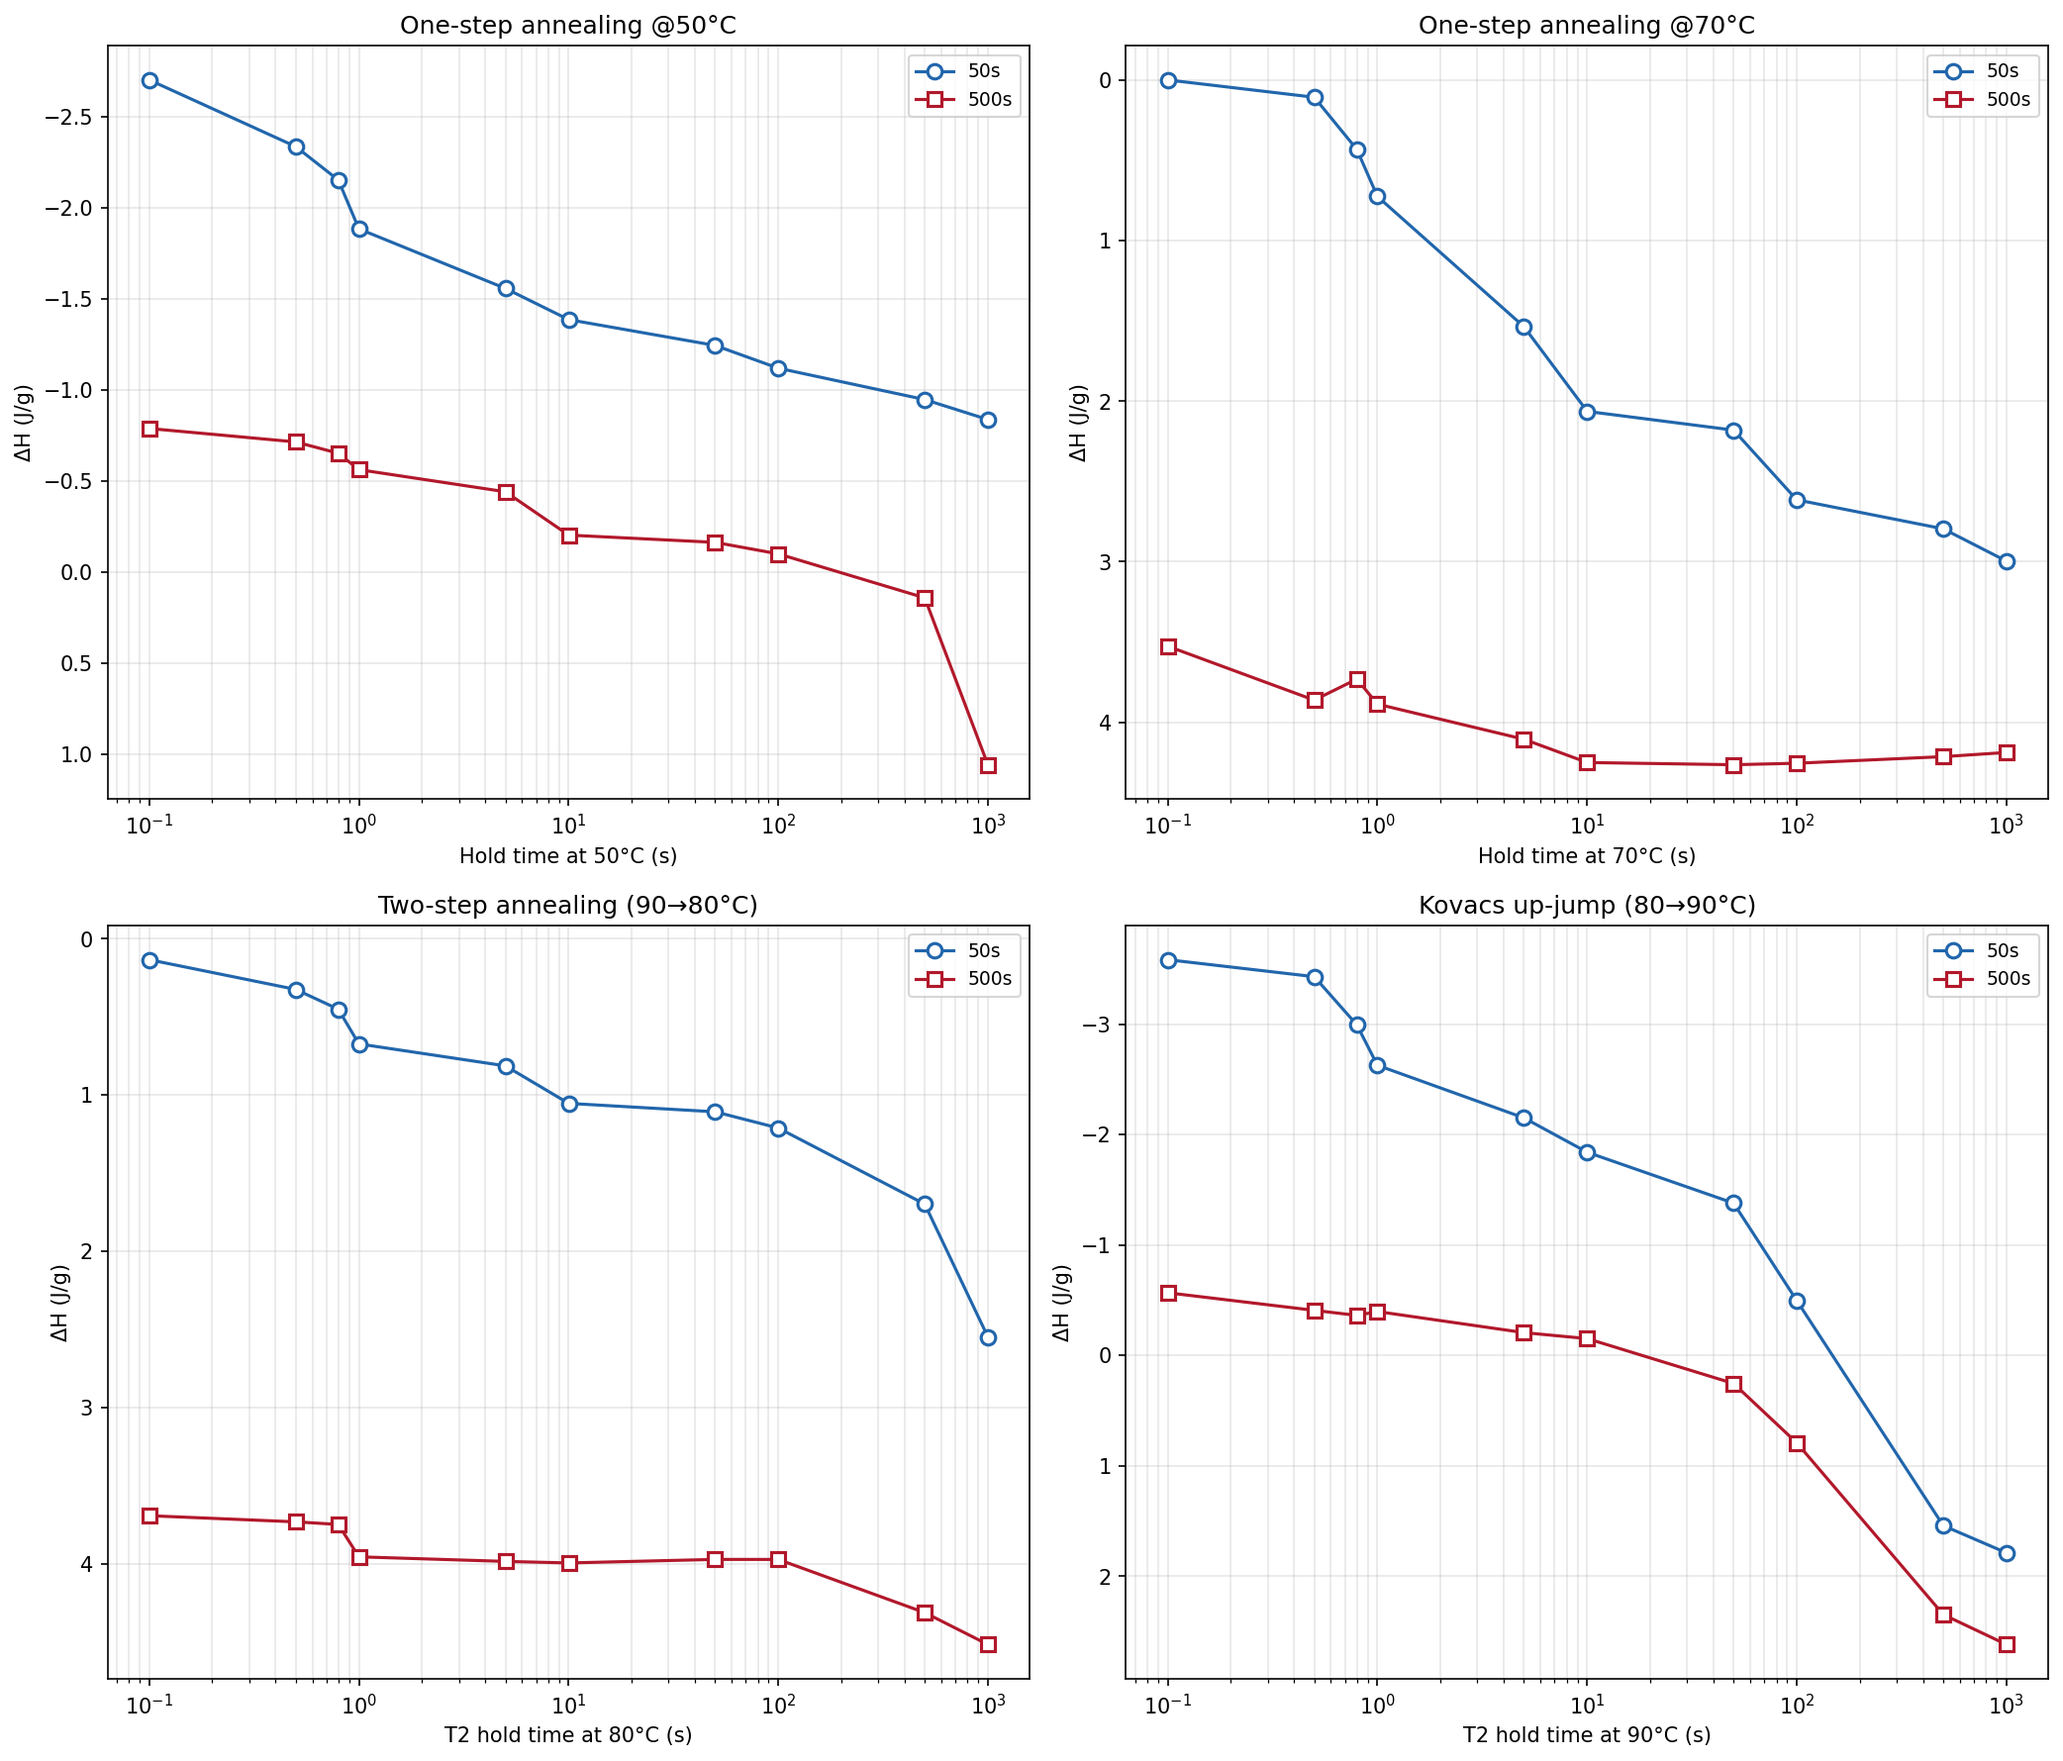
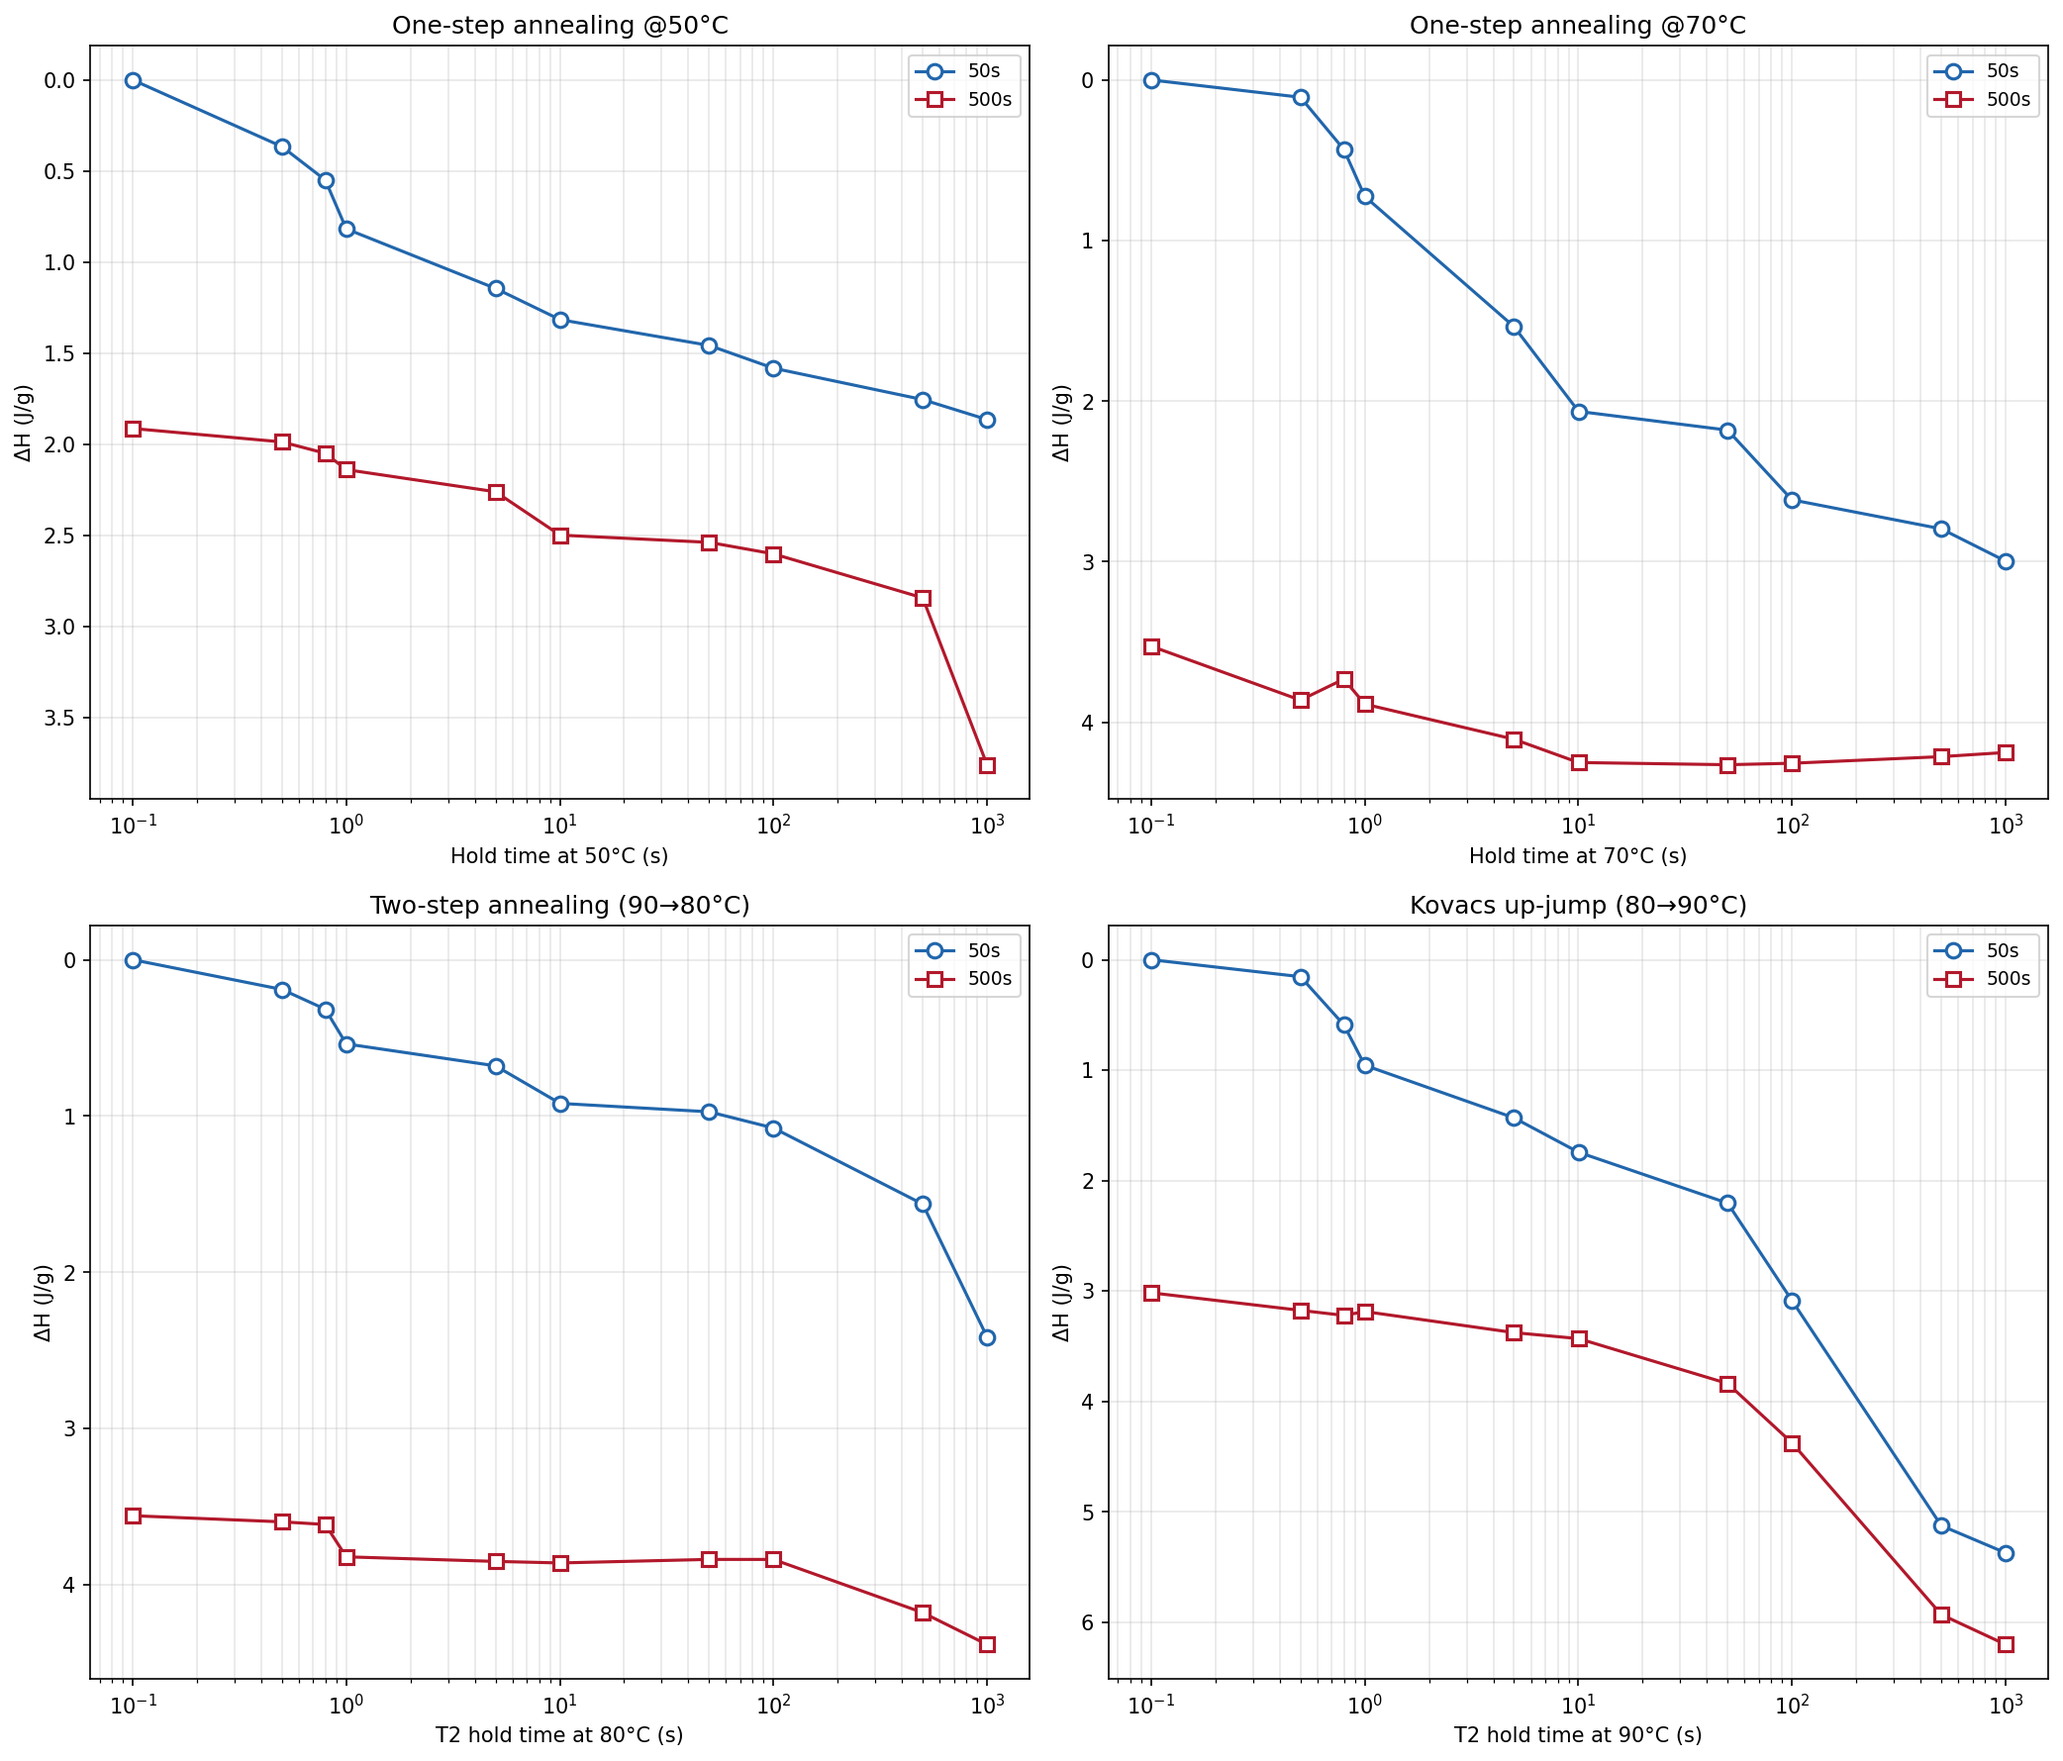
2026-05-15 21:32 - auto commit

diff --git a/src/export_enthalpy.py b/src/export_enthalpy.py
@@ -124,26 +124,7 @@ def find_liquid_onset(T_seg, DSC_seg, T_liq_fit_lo=110, T_liq_fit_hi=160, T_tg_l
     return np.nan
 
 
-def compute_reference_integral(data_file, sheet, interp_empty):
-    """Compute reference integral from one-step 70°C ramp 1 (0.1s, as-cooled)."""
-    exp_data, _ = load_dsc_experiment(data_file, sheet=sheet)
-    T_exp = exp_data['Temp'].values
-    DSC_exp = exp_data['DSC'].values
-    t_exp = exp_data['Time'].values
-    ramps = detect_heating_ramps(T_exp, t_exp)
-    s, e = ramps[0]
-    T_seg = T_exp[s:e + 1]
-    DSC_seg = DSC_exp[s:e + 1]
-    T_onset = find_liquid_onset(T_seg, DSC_seg)
-    interp_dsc = interp1d(T_seg, DSC_seg, kind='linear', bounds_error=False, fill_value='extrapolate')
-    T_grid = np.arange(T_INT_LOW, T_onset + 0.01, 0.1)
-    delta_DSC = interp_dsc(T_grid) - interp_empty(T_grid)
-    ref_integral = trapezoid(delta_DSC, T_grid)
-    print(f"  Reference (one-step 70°C, ramp 1): integral={ref_integral:.2f}, T_onset={T_onset:.2f}°C")
-    return ref_integral
-
-
-def process_onestep(data_file, sheet, T_anneal, label, interp_empty, ref_integral):
+def process_onestep(data_file, sheet, T_anneal, label, interp_empty):
     """Process one-step annealing and return enriched DataFrame."""
     exp_data, program = load_dsc_experiment(data_file, sheet=sheet)
     T_exp = exp_data['Temp'].values
@@ -199,7 +180,8 @@ def process_onestep(data_file, sheet, T_anneal, label, interp_empty, ref_integra
             all_integrals.append(np.nan)
 
     integrals = np.array(all_integrals)
-    dH = (integrals - ref_integral) * CONV_JG
+    ref = integrals[0]
+    dH = (integrals - ref) * CONV_JG
 
     # Determine cooling group (50s vs 500s) from program pattern
     n = len(conditions)
@@ -223,7 +205,7 @@ def process_onestep(data_file, sheet, T_anneal, label, interp_empty, ref_integra
     return pd.DataFrame(results)
 
 
-def process_twosteps(data_file, sheet, label, interp_empty, ref_integral):
+def process_twosteps(data_file, sheet, label, interp_empty):
     """Process two-step annealing and return enriched DataFrame."""
     exp_data, program = load_dsc_experiment(data_file, sheet=sheet)
     T_exp = exp_data['Temp'].values
@@ -290,7 +272,8 @@ def process_twosteps(data_file, sheet, label, interp_empty, ref_integral):
             all_integrals.append(np.nan)
 
     integrals = np.array(all_integrals)
-    dH = (integrals - ref_integral) * CONV_JG
+    ref = integrals[0]
+    dH = (integrals - ref) * CONV_JG
 
     # Determine T1 group (50s vs 500s)
     n = len(conditions)
@@ -317,7 +300,7 @@ def process_twosteps(data_file, sheet, label, interp_empty, ref_integral):
     return pd.DataFrame(results)
 
 
-def process_kovacs(data_file, sheet, label, interp_empty, ref_integral):
+def process_kovacs(data_file, sheet, label, interp_empty):
     """Process Kovacs up-jump annealing and return enriched DataFrame."""
     exp_data, program = load_dsc_experiment(data_file, sheet=sheet)
     T_exp = exp_data['Temp'].values
@@ -392,7 +375,8 @@ def process_kovacs(data_file, sheet, label, interp_empty, ref_integral):
             all_integrals.append(np.nan)
 
     integrals = np.array(all_integrals)
-    dH = (integrals - ref_integral) * CONV_JG
+    ref = integrals[0]
+    dH = (integrals - ref) * CONV_JG
 
     n = len(conditions)
     midpoint = n // 2
@@ -431,18 +415,12 @@ def main():
     # Load empty baseline
     interp_empty = load_empty()
 
-    # Compute reference integral from one-step 70°C, ramp 1 (0.1s, as-cooled state)
-    print("\n[0] Computing reference integral (one-step 70°C, ramp 1 = as-cooled)...")
-    ref_integral = compute_reference_integral(
-        os.path.join(DATA_DIR, 'PS-onestep-02.xlsx'),
-        'PS-onestep-02', interp_empty)
-
     # ── One-step 50°C ──
     print("\n[1/4] One-step annealing 50°C ...")
     df_os_50 = process_onestep(
         os.path.join(DATA_DIR, 'PS-onestep-01.xlsx'),
         sheet='PS-onestep-01', T_anneal=50, label='One-step 50C',
-        interp_empty=interp_empty, ref_integral=ref_integral,
+        interp_empty=interp_empty,
     )
     out = os.path.join(RESULTS_DIR, 'enthalpy_onestep_50C.csv')
     df_os_50.to_csv(out, index=False, float_format='%.4f')
@@ -454,7 +432,7 @@ def main():
     df_os_70 = process_onestep(
         os.path.join(DATA_DIR, 'PS-onestep-02.xlsx'),
         sheet='PS-onestep-02', T_anneal=70, label='One-step 70C',
-        interp_empty=interp_empty, ref_integral=ref_integral,
+        interp_empty=interp_empty,
     )
     out = os.path.join(RESULTS_DIR, 'enthalpy_onestep_70C.csv')
     df_os_70.to_csv(out, index=False, float_format='%.4f')
@@ -466,7 +444,7 @@ def main():
     df_ts = process_twosteps(
         os.path.join(DATA_DIR, 'twosteps.xlsx'),
         sheet='PS-02', label='Two-step',
-        interp_empty=interp_empty, ref_integral=ref_integral,
+        interp_empty=interp_empty,
     )
     out = os.path.join(RESULTS_DIR, 'enthalpy_twosteps.csv')
     df_ts.to_csv(out, index=False, float_format='%.4f')
@@ -478,7 +456,7 @@ def main():
     df_kov = process_kovacs(
         os.path.join(DATA_DIR, 'pskovacs.xlsx'),
         sheet='PS-kovacs-01', label='Kovacs',
-        interp_empty=interp_empty, ref_integral=ref_integral,
+        interp_empty=interp_empty,
     )
     out = os.path.join(RESULTS_DIR, 'enthalpy_kovacs.csv')
     df_kov.to_csv(out, index=False, float_format='%.4f')
